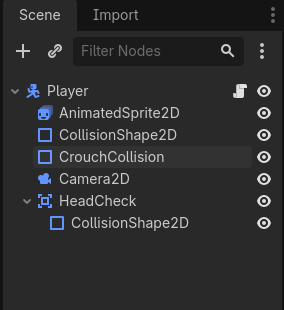
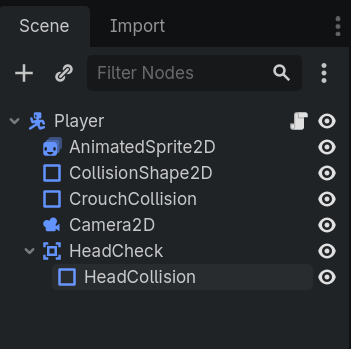
Added crouching

diff --git a/2026/movement/crouching.html b/2026/movement/crouching.html
@@ -37,29 +37,177 @@
 		<div class="col-lg-9 col-md-8 content">
 
 			<!-- Section -->
-			<h3>Title</h3>
-			<p>explanation.</p>
+			<h3>Crouching</h3>
+			<p>Simply put, we can add the ability for the player crouch down, reducing the size of their collision to get into tight spaces.</p>
 
-			<h4>Sub-title</h4>
-			<p>explanation.</p>
-
-			<!-- Hints -->
-			<p class="hint warning">IMPORTANT! This module requires the <a href="section/module.html">Module</a> module to be completed first!</p>
-
-			<p class="hint add-info">If you are not taking this course in person, you can download the assets <a href="#" target="_blank">Here<i class="linkbox bi bi-box-arrow-up-right"></i></a></p>
-
-			<p class="hint tip">explanation.</p>
+			<h4>Getting the New Assets</h4>
+			<p>Before we can start adding the ability to crouch, we need the new sprites! Go ahead and open up the Crouching folder in your VGDC Assets folder, find the appropriate files and drag it into your file system.</p>
+			<p class="hint add-info">If you are not taking this course in person, you can download the assets <a href="https://drive.google.com/drive/folders/1p7nq1mwo_H3OeOks60P1RyR8Yosre2sC?usp=sharing" target="_blank">Here<i class="linkbox bi bi-box-arrow-up-right"></i></a></p>
+			<p>Now we need to add a new animation to our player's sprite frames. Navigate to your player scene's AnimatedSprite2D then it's sprite frame. We will create two new animations named crouch_idle and crouch_walk. Go ahead and import the new files as frames.</p>
+			<img src="movement/images/crouch_sprite_frames.png" class="img-fluid">
+			<p class="hint tip">I set my crouch_idle animation speed to 4 and my crouch_walk speed to 8 (80% of the regular speeds). You can go ahead and change it towhat you want, but I do recommend slower than your regular idle/walking.</p>
 			
-			<!-- Images -->
-			<img src="section/images/wahoo.png" class="img-fluid" alt="description.">
+			<h4>Adding the Input</h4>
+			<p>Next we must add a new input action for crouching. Go to your project settings then the input map tab. Create a new action called Down and add a key (I will use S and the down arrow as my down keys.)</p>
+			<img src="movement/images/down_input.png" class="img-fluid">
 
-			<!-- Codeblock -->
+			<h4>Setting up the Player Scene</h4>
+			<p>Next we will need to add a couple things to our player's scene tree. First, add a new CollisionShape2D node to our player, rename it to CrouchCollision and move it beneath our original CollisionShape2D. This will be the collision we use while crouching. We also want to add a new Area2D node named HeadCheck, as well as another CollisionShape2D as a child of HeadCheck, naming it HeadCollision. This will be used to prevent the player from getting stuck in the ceiling.</p>
+			<img src="movement/images/crouch_scene_tree.png" class="img-fluid">
+			<p>Next let's add the actual shapes to our new CollisionShape2Ds. Select our CrouchCollision node, and in the inspector add a new RectangleShape to it. Edit the shape in the Viewport to the size you want. I made mine 4 pixels shorter than the normal collider. Then select HeadCollision and add another RectangleShape, editing it to take up the remaining space between the CrouchCollision shape and default collision, like so:</p>
+			<img src="movement/images/crouch_collision_shapes.png" class="img-fluid">
+			<p class="hint tip">Going into your player's AnimatedSprite2D and selecting the crouch_idle animation can make sizing the box much easier.</p>
+			<p>Now we need to make sure that our HeadCheck is connecting properly with our script. We can start this by first selecting HeadCheck and in the inspector changing its collision layers to be empty and keeping its masks on world:</p>
+			<img src="movement/images/crouch_collision_masks.png" class="img-fluid">
+			<p>Finally, still in HeadCheck's inspector, go to the signals tab, connecting both the body_entered and body_exited signals to our script by double clicking them (you can keep the default name and settings for both.)</p>
+			<img src="movement/images/head_check_signals.png" class="img-fluid">
+
+			<h4>Editing the Player Script</h4>
+			<p>To get started in the player script we will need to add 6 new variables! First, we will add crouch_speed to our player stats, which I set to 80.0. Next we will need to get access to our default CollisionShape2D, CrouchCollision and HeadCheck in our script. We can get them by starting to drag them from our scene tree, holding control and then dropping them into our script (keeping the default names). Finally, we will add two more reference variables, those being crouching and head_blocked, both started as false:</p>
 			<div><button class="copy-code-btn btn" onclick="copyCode(this);"><i class="bi bi-clipboard"></i></button>
-			<pre><code class="language-gdscript">code</code></pre></div>
+			<pre><code class="language-gdscript"># Player Stats
+@export var speed = 100.0
+@export var acceleration = 800.0
+@export var friction = 1200.0
+@export var jump_velocity = -300.0
+@export var gravity = 980.0
+@export var terminal_velocity = 500.0
+@export var crouch_speed = 80.0
 
-			<div class="text-center">
-				<a href="section/module.html" class="btn col-lg-4 col-md-6 col-12">Next</a>
-			</div>
+# Reference Variables
+@onready var sprite = $AnimatedSprite2D
+@onready var head_check: Area2D = $HeadCheck
+@onready var collision_shape_2d: CollisionShape2D = $CollisionShape2D
+@onready var crouch_collision: CollisionShape2D = $CrouchCollision
+var crouching = false
+var head_blocked = false</code></pre></div>
+			<p>Next up let's add a new method into our _physics_process funtion, that being handle_crouching(). No need for any arguments, as this function will only manage starting and ending our crouching state.</p>
+			<div><button class="copy-code-btn btn" onclick="copyCode(this);"><i class="bi bi-clipboard"></i></button>
+			<pre><code class="language-gdscript">func _physics_process(delta):
+	var input_axis = Input.get_axis("Left","Right")
+	handle_crouching()
+	apply_gravity(delta)
+	handle_jump()
+	apply_acceleration(input_axis,delta)
+	apply_friction(input_axis,delta)
+	update_animations(input_axis)
+	move_and_slide()</code></pre></div>
+			<p>Of course we will get an error, so lets quickly make our handle_crouching function. In the new function we want to test if the player is holding the down input and is currently on the ground. If so, we will enable the crouch_collider, disable our default collider and set crouching to true. If the condition isn't met, we want to check if the player's head is blocked, and if not, reverse the changes we made (we check head_blocked so the player can't uncrouch when they would be inside of a wall).</p>
+			<div><button class="copy-code-btn btn" onclick="copyCode(this);"><i class="bi bi-clipboard"></i></button>
+			<pre><code class="language-gdscript">func handle_crouching():
+	if is_on_floor() and Input.is_action_pressed("Down"):
+		crouching = true
+		crouch_collision.disabled = false
+		collision_shape_2d.disabled = true
+	elif head_blocked == false:
+		crouching = false
+		collision_shape_2d.disabled = false
+		crouch_collision.disabled = true</code></pre></div>
+			<p>Right now, however, we aren't actually updating if the player's head is blocked! To fix this we will edit the functions we added earlier through the HeadCheck's signals. We will simply set head_blocked to true when HeadCheck enters a body, and set head_blocked to false when it exits one, like so:</p>
+			<div><button class="copy-code-btn btn" onclick="copyCode(this);"><i class="bi bi-clipboard"></i></button>
+			<pre><code class="language-gdscript">func _on_head_check_body_entered(_body):
+	head_blocked = true
+
+func _on_head_check_body_exited(_body):
+	head_blocked = false</code></pre></div>
+			<p>On a related note, we also want to prevent the player from jumping if their head is blocked. We do this simply by returning out of the handle_jump function if head_blocked is true:</p>
+			<div><button class="copy-code-btn btn" onclick="copyCode(this);"><i class="bi bi-clipboard"></i></button>
+			<pre><code class="language-gdscript">func handle_jump():
+	# Blocked Jumping
+	if head_blocked == true: return
+	
+	# Jumping
+	if is_on_floor() and Input.is_action_just_pressed("Jump"):
+		velocity.y = jump_velocity</code></pre></div>
+			<p>Now we are ready to actually apply some actual functionality! First lets apply our crouch_speed while crouching. We do this by creating a new current_speed variable in our apply_acceleration function, setting its value based on an if then statement:</p>
+			<div><button class="copy-code-btn btn" onclick="copyCode(this);"><i class="bi bi-clipboard"></i></button>
+			<pre><code class="language-gdscript">func apply_acceleration(input_axis,delta):
+	# Set Speed
+	var current_speed
+	if crouching:
+		current_speed = crouch_speed
+	else:
+		current_speed = speed
+		
+	if input_axis:
+		velocity.x = move_toward(velocity.x, current_speed * input_axis, acceleration * delta)</code></pre></div>
+			<p class="hint alert">Note that speed was replaced with current_speed in the move_toward method.</p>
+			<p>Finally, let's make sure our crouching animations play by editing our update_animations function. Specifically we want to add a condition to play our crouch_walk and crouch_idle animations instead of the default ones while crouching, like so:</p>
+			<div><button class="copy-code-btn btn" onclick="copyCode(this);"><i class="bi bi-clipboard"></i></button>
+			<pre><code class="language-gdscript">func update_animations(input_axis):
+	if input_axis: sprite.flip_h = input_axis < 0
+	
+	# Grounded Animations
+	if input_axis:
+		if crouching: 
+			sprite.play("crouch_walk")
+		else:
+			sprite.play("walk")
+	else:
+		if crouching:
+			sprite.play("crouch_idle")
+		else:
+			sprite.play("idle")
+	
+	# Aerial Animations
+	if not is_on_floor():
+		if velocity.y <= 0:
+			sprite.play("jump")
+		else:
+			sprite.play("fall")</code></pre></div>
+			<p>And we are done! Go ahead and test out your new ability, mess around with the speed and once you are happy with it, move on to another module!</p>
+
+			<h3>Compatibility</h3>
+			<p>Crouching conflicts with 4 other modules:</p>
+			<ol>
+				<li><h5>Hazard Setup</h5></li>
+				<li><h5>Sprinting and Swimming</h5></li>
+				<li><h5>Trigger Setup</h5></li>
+			</ol>
+			<p>If you have any of these modules please follow the instructions for that module:</p>
+
+			<h4>Sprinting and Swimming</h4>
+			<p>Since each of these modules modify the player's max speed, we need to set the order of priority, with crouching overriding sprinting and swimming overriding both. We can do this using elif (else if) statements like so:</p>
+			<div><button class="copy-code-btn btn" onclick="copyCode(this);"><i class="bi bi-clipboard"></i></button>
+			<pre><code class="language-gdscript">func apply_acceleration(input_axis,delta):
+	sprinting = Input.is_action_pressed("Sprint")
+	
+	# Set Speed
+	var current_speed
+	if in_water:
+		current_speed = swim_speed
+	elif crouching:
+		current_speed = crouch_speed
+	elif sprinting:
+		current_speed = sprint_speed
+	else:
+		current_speed = speed
+	
+	# Set Acceleration
+	var current_acceleration
+	if in_water:
+		current_acceleration =swim_acceleration
+	else:
+		current_acceleration = acceleration
+	
+	# Deacceleration after Dash
+	if abs(velocity.x) > current_speed: velocity.x = move_toward(velocity.x, current_speed * input_axis, dash_acceleration * delta)
+	
+	if input_axis:
+		velocity.x = move_toward(velocity.x, current_speed * input_axis, current_acceleration * delta)</code></pre></div>
+
+			<h4>Swimming Continued</h4>
+			<p>In addition to the previous fix, we want swimming to actually prevent crouching entirely. We can do this by adding a condition to check if the player is in water in our handle_crouching function:</p>
+			<div><button class="copy-code-btn btn" onclick="copyCode(this);"><i class="bi bi-clipboard"></i></button>
+			<pre><code class="language-gdscript">func handle_crouching():
+	if is_on_floor() and Input.is_action_pressed("Down") and not in_water:
+		crouching = true
+		crouch_collision.disabled = false
+		collision_shape_2d.disabled = true
+	elif head_blocked == false:
+		crouching = false
+		collision_shape_2d.disabled = false
+		crouch_collision.disabled = true</code></pre></div>
 		</div>
 	</div>
 	<div class="row">
@@ -69,7 +217,7 @@
 </div>
 <script>
 	function triggerExpand() {
-		expandAndHighlight('home',null,null)
+		expandAndHighlight('Movement','Crouching','movementToggle')
 	}
 </script>
 </body>

diff --git a/2026/css/styles.css b/2026/css/styles.css
@@ -207,6 +207,13 @@ h4 {
 	font-size: 14px;
 }
 
+input {
+	vertical-align: middle;
+    padding: 6.5px;
+    border-radius: 5px;
+    border-width: 1px;
+}
+
 .img-fluid {
 	margin-bottom: 20px;
 }

diff --git a/2026/movement/sprinting.html b/2026/movement/sprinting.html
@@ -42,7 +42,7 @@
 			<p class="hint add-info">If you are not taking this course in person, you can download the assets <a href="https://drive.google.com/drive/folders/1p7nq1mwo_H3OeOks60P1RyR8Yosre2sC?usp=sharing" target="_blank">Here<i class="linkbox bi bi-box-arrow-up-right"></i></a></p>
 			<p>Now we need to add a new animation to our player's sprite frames. Navigate to your player scene's AnimatedSprite2D then it's sprite frame. Create a new animation called sprint and import the new file as a frame.</p>
 			<img src="movement/images/sprint_sprite_frames.png" class="img-fluid">
-			<p class="hint alert">Note that the animation speed for sprinting is 12 fps! You can change it but you do want it faster than walking.</p>
+			<p class="hint tip">I set my sprinting animation speed to 12 fps, as I thought that looked right. You can change it, but you do want it faster than walking.</p>
 			<h4>Adding the Input</h4>
 			<p>Next we must add a new input action for sprinting. Go to your project settings then the input map tab. Create a new action called Sprint and add a key (I will add shift as my sprint key.)</p>
 			<img src="movement/images/sprint_inputs.png" class="img-fluid">
@@ -109,7 +109,7 @@ var sprinting = false</code></pre></div>
 			<p>If you have any of these modules please follow the instructions for that module:</p>
 
 			<h4>Crouching and Swimming</h4>
-			<p>Since each of these modules modify the player's max speed, we need to set the order of priority, with scrouching overriding sprinting and swimming overriding both. We can do this using elif (else if) statements like so:</p>
+			<p>Since each of these modules modify the player's max speed, we need to set the order of priority, with crouching overriding sprinting and swimming overriding both. We can do this using elif (else if) statements like so:</p>
 			<div><button class="copy-code-btn btn" onclick="copyCode(this);"><i class="bi bi-clipboard"></i></button>
 			<pre><code class="language-gdscript">func apply_acceleration(input_axis,delta):
 	sprinting = Input.is_action_pressed("Sprint")

diff --git a/2026/getting_started/create_world_scene.html b/2026/getting_started/create_world_scene.html
@@ -44,7 +44,7 @@
 			<p>For a level, we don't need any special functionality so we only need to select 2D Scene as our root node. Let's name our root node World.</p>
 			
 			<h4>Adding Tiles</h4>
-			<p>Of course, right now our level is still empty. In order to make a level we will be using <strong>Tiles</strong>. You can think of tiles as the building blocks that you use to create a level. In order to add them we need a TileMapLayer node. Right click the world node and add a new node. Navigate through the menu and find the TileMapLayer node (the icon should be a grid pattern at an angled perspective. TileMap nodes are similar but have been phased out by Godot!) Select the TileMapLayer node and look over to the inspector.</p>
+			<p>Of course, right now our level is still empty. In order to make a level we will be using <strong>Tiles</strong>. You can think of tiles as the building blocks that you use to create a level. In order to add them we need a TileMapLayer node. Right click the world node and add a new node. Navigate through the menu and find the TileMapLayer node (the icon should be a grid pattern at an angled perspective. TileMap nodes are similar but have been phased out by Godot!) Lets rename our TileMapLayer node GroundTiles, select it, and look over to the inspector.</p>
 			<img src="getting_started/images/create_tileset.png" class="img-fluid" alt="TileMap Inspector">
 
 			<p>In the inspector select the tile set property and create a new TileSet, then select the new tileset. A blue menu will appear in the inspector as well as two new tabs in the bottom panel. In the inspector go to the physic layers section of the TileSet menu, create a new element, and then disable the masks (the layer will be kept as world (1).)</p>

diff --git a/2026/whats_new.html b/2026/whats_new.html
@@ -35,7 +35,7 @@
 			<h4>Color-coded Hints</h4>
 			<p>I decided to do away with the solid gray hint boxes of previous years, instead replacing them with colorful boxes that can better portray their importance. Here is an example of each and what they mean:</p>
 			<p class="hint warning">This is a <strong>Warning</strong>. These are placed predominantly to let you know that you need to do another module before continuing.</p>
-			<p class="hint alert">This is a <strong>Alert</strong>. These are here to bring attention to common mistakes or subtle changes before they can cause issues.</p>
+			<p class="hint alert">This is an <strong>Alert</strong>. These are here to bring attention to common mistakes or subtle changes before they can cause issues.</p>
 			<p class="hint add-info">This is <strong>Addition Info</strong>. These contain either more detail on a given topic or links to external resources.</p>
 			<p class="hint tip">This is a <strong>Tip</strong>. These are little tricks and thoughts from me to you, and are more for fun and inspiration than any actual important information.</p>
 